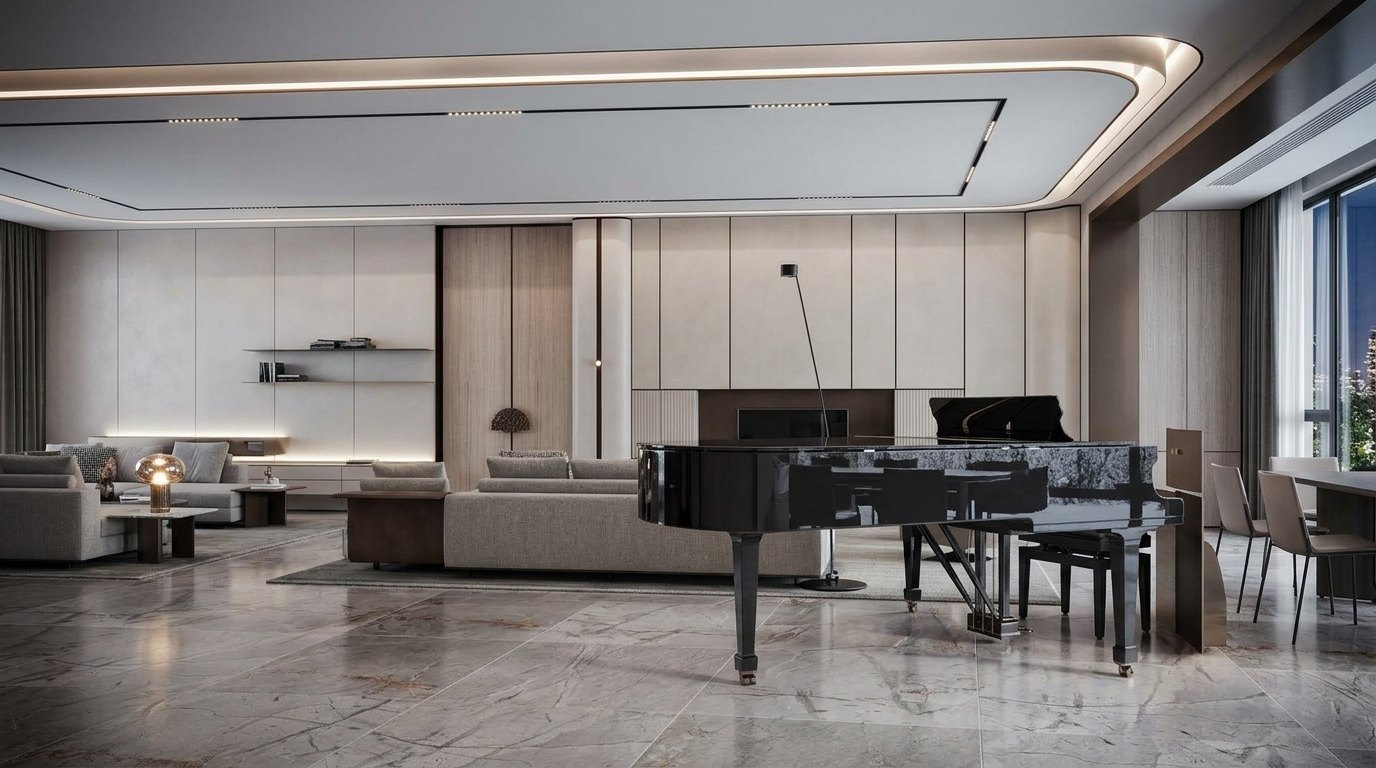
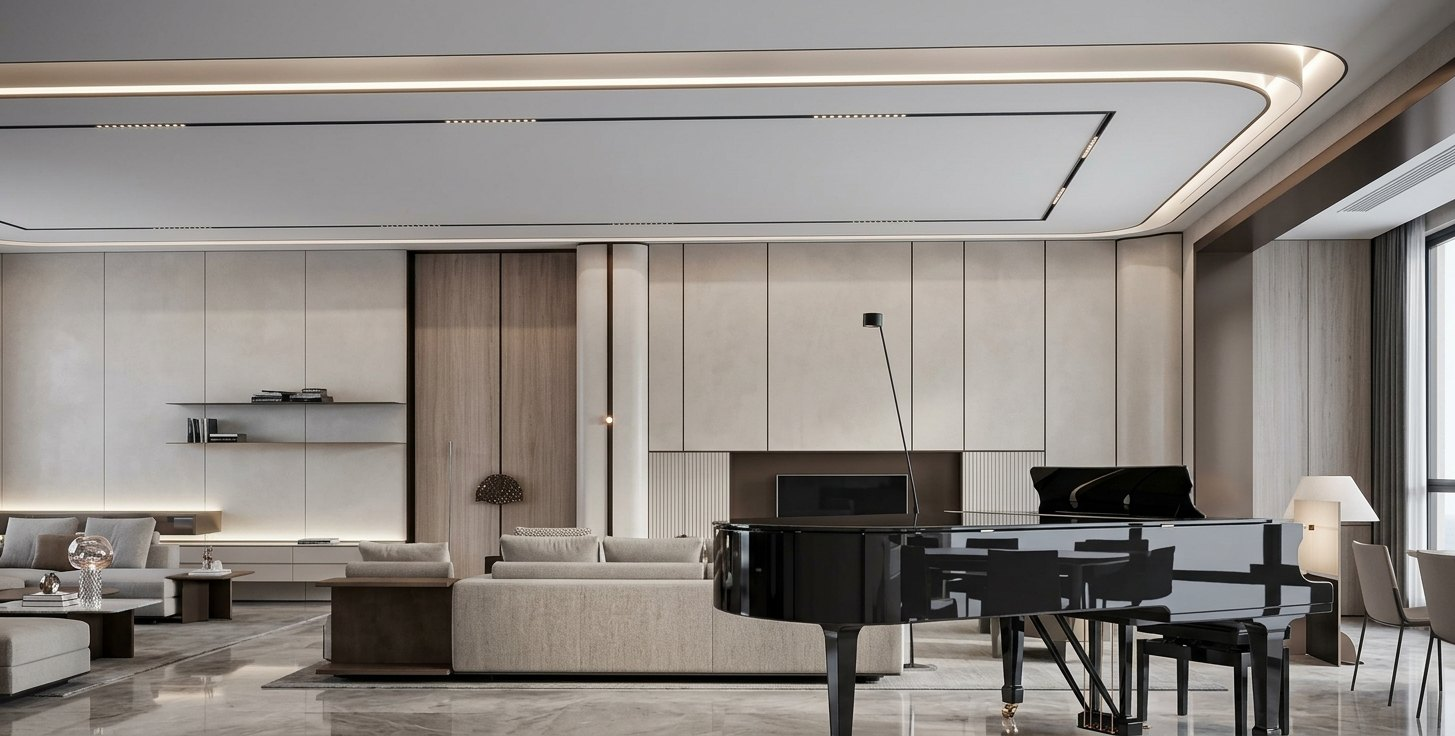
Сайт: первый экран снова во всю ширину без полей, но ниже окна; новая картинка слайда 2

diff --git a/site/index.html b/site/index.html
@@ -101,12 +101,10 @@ a{color:inherit}
 }
 
 /* первый экран — на всю высоту и ширину окна, фото фоном (её решение 05.10) */
-/* блок первого экрана: уже и ниже (её правка 05.10 по скриншоту) — по центру с отступами, пропорции 2:1 как у картинок,
-   целиком помещается в окно; ширина = меньшее из «экран минус поля» и «высота окна × 2» */
+/* блок первого экрана: во всю ширину, БЕЗ полей по бокам (её «зачем рамки сбоку»), но ниже окна —
+   ~3/4 высоты экрана (её «блок поуже»); картинки заполняют блок по ширине */
 .hero{position:relative;display:grid;align-items:end;color:var(--paper);overflow:hidden;container-type:inline-size;
-  --hero-gap:clamp(16px,2vw,32px);
-  width:min(calc(100% - 2 * var(--gut)), calc((100svh - 72px - 2 * var(--hero-gap)) * 2));
-  aspect-ratio:2/1;margin:var(--hero-gap) auto;border-radius:6px}
+  width:100%;height:clamp(500px,min(76svh,48vw),920px)}
 /* слайдер фото первого экрана: плавная смена, текст стоит на месте */
 .slides{position:absolute;inset:0}
 .slides .ph{position:absolute;inset:0;aspect-ratio:auto;border-radius:0;opacity:0;transition:opacity 1.2s ease}
@@ -122,7 +120,7 @@ a{color:inherit}
 .slides .ph:nth-child(4){background:linear-gradient(20deg,var(--ph3) 0%,var(--ph2) 45%,var(--ph1) 100%)}
 .slides .ph img{animation:zoom 9s ease-out both}
 @keyframes zoom{from{transform:scale(1.06)}to{transform:scale(1)}}
-.slider-ui{position:absolute;z-index:2;right:clamp(24px,5cqi,80px);bottom:clamp(28px,4cqi,64px);display:flex;align-items:center;gap:16px;color:var(--paper);
+.slider-ui{position:absolute;z-index:2;right:var(--gut);bottom:clamp(28px,3cqi,56px);display:flex;align-items:center;gap:16px;color:var(--paper);
   padding:8px;border-radius:99px;background:rgb(var(--shade)/.38);backdrop-filter:blur(6px)} /* видно на любом фото, и на светлом */
 .slider-ui button{width:48px;height:48px;border:1px solid rgb(255 255 255/.45);border-radius:50%;background:transparent;color:var(--paper);
   cursor:pointer;font-size:18px;transition:background .25s,color .25s}
@@ -150,20 +148,20 @@ a{color:inherit}
 @media (max-width:860px){ /* на телефоне текст во всю ширину — ровное затемнение */
   .hero > .slides .ph::after{background:linear-gradient(180deg,rgb(var(--shade)/.38) 0%,rgb(var(--shade)/.28) 60%,rgb(var(--shade)/.5) 100%)}}
 .hero > .slides .ph figcaption{left:auto;right:var(--gut);bottom:auto;top:24px;text-align:right;z-index:1}
-.hero .wrap{position:relative;z-index:1;width:100%;padding-block:clamp(28px,4cqi,64px);padding-inline:clamp(24px,5cqi,80px)}
+.hero .wrap{position:relative;z-index:1;width:100%;padding-block:clamp(28px,3cqi,56px);padding-inline:var(--gut)}
 .hero-text{display:grid;gap:28px;max-width:1120px;min-width:0}
 .hero-text .lead{max-width:62ch}
 .hero .eyebrow{color:var(--on-dark-accent)}
 .hero .lead{color:var(--on-dark-soft)}
-.hero h1{font-size:clamp(34px,5cqi,80px)}
-.hero-text{gap:clamp(14px,1.8cqi,26px)}
-.hero .lead{font-size:clamp(15px,1.25cqi,19px)}
+.hero h1{font-size:clamp(34px,min(4cqi,8svh),76px)}
+.hero-text{gap:clamp(14px,1.4cqi,24px)}
+.hero .lead{font-size:clamp(15px,1cqi,19px)}
 .hero .dirs{font-size:clamp(12px,.95cqi,14px);max-width:min(760px,56cqi)} /* не заезжать под стрелки слайдера */
 /* в небольшом блоке строку направлений прячем: те же направления уже есть в тексте над кнопками */
-@container (max-width:1360px){.hero .dirs{display:none}}
+@container (max-width:1500px){.hero .dirs{display:none}}
 /* телефон и узкие окна: блок снова на весь экран, иначе текст не влезет */
 @media (max-width:860px){
-  .hero{width:100%;aspect-ratio:auto;min-height:calc(100svh - 72px);margin:0;border-radius:0}
+  .hero{height:auto;min-height:calc(100svh - 72px)}
   .hero .wrap{padding-inline:var(--gut);padding-block:48px 56px}
   .hero h1{font-size:clamp(34px,10vw,52px)}
   .hero .lead{font-size:16px}
@@ -319,8 +317,8 @@ footer .wrap{display:flex;flex-wrap:wrap;gap:12px 32px;justify-content:space-bet
     <!-- по слайду на каждого клиента; подпись ведёт в его раздел. Фото: 2560×1440, слева спокойно (там текст) -->
     <!-- ОБРАЗЕЦ с Pinterest (её выбор 05.10): на запуск заменить на перерисованное/своё фото -->
     <figure class="ph slide is-on has-photo" data-photo="fasad" aria-roledescription="слайд" aria-label="1 из 6"><img src="img/obrazcy/pin_01.jpg" alt="Резиденция в классическом стиле с бассейном и садом вечером" style="object-position:50% 66%" fetchpriority="high"><figcaption><a href="#sobstvennik" data-go="sobstvennik">Владельцу дома →</a></figcaption></figure>
-    <!-- своя генерация Gemini по образцу (её файл 05.10), 1376×768 -->
-    <figure class="ph slide has-photo light" data-photo="kondicionery-dom" aria-roledescription="слайд" aria-label="2 из 6"><picture><source srcset="img/slides/pomoshchnik.webp" type="image/webp"><img src="img/slides/pomoshchnik.jpg" alt="Гостиная с роялем и скрытыми решётками климата в потолке" style="object-position:60% 50%" loading="lazy"></picture><figcaption><a href="#pomoshchnik" data-go="pomoshchnik">Помощнику владельца →</a></figcaption></figure>
+    <!-- своя генерация Gemini по образцу (её файл 05.10, вторая версия), 1455×736 -->
+    <figure class="ph slide has-photo light" data-photo="kondicionery-dom" aria-roledescription="слайд" aria-label="2 из 6"><picture><source srcset="img/slides/pomoshchnik.webp" type="image/webp"><img src="img/slides/pomoshchnik.jpg" alt="Гостиная с роялем и скрытыми решётками климата в потолке" style="object-position:60% 78%" loading="lazy"></picture><figcaption><a href="#pomoshchnik" data-go="pomoshchnik">Помощнику владельца →</a></figcaption></figure>
     <!-- своя генерация Recraft v4 (её файл 05.10), 1536×768 -->
     <figure class="ph slide has-photo" data-photo="shtory" aria-roledescription="слайд" aria-label="3 из 6"><picture><source srcset="img/slides/dizayner.webp" type="image/webp"><img src="img/slides/dizayner.jpg" alt="Светлая гостиная с камином, креслами и лёгкими шторами" style="object-position:50% 50%" loading="lazy"></picture><figcaption><a href="#dizayner" data-go="dizayner">Дизайнеру →</a></figcaption></figure>
     <!-- ОБРАЗЕЦ с Pinterest (тёплый пол в разрезе), 800×600 — мутно и старомодно; перерисовать -->

diff --git a/site/CLAUDE.md b/site/CLAUDE.md
@@ -16,10 +16,10 @@
 ## Оформление
 - Сайт во всю ширину экрана (её решение 05.10): без узкой колонки, отступы по краям --gut; длину строк текста
   ограничивать max-width в ch.
-- Первый экран (её правка 05.10 по скриншоту «сделай блок поуже, картинки втисни по размеру блока»): блок НЕ от края
-  до края — по центру с отступами, пропорции 2:1 как у картинок слайдов, целиком помещается в окно
-  (ширина = min(экран − поля, (высота окна − шапка − отступы) × 2)); размеры текста — от ширины блока (cqi).
-  На телефоне (≤860px) блок на весь экран. Картинки слайдов делать 2:1 (как Recraft 1536×768).
+- Первый экран (её правки 05.10): во всю ширину, БЕЗ полей по бокам («зачем рамки сбоку»), но НИЖЕ окна
+  («сделай блок поуже» = по высоте): height clamp(500px, min(76svh, 48vw), 920px); картинка заполняет блок,
+  кадр двигать object-position, чтобы главное (рояль, камин, бассейн) было видно. Текст — от ширины блока (cqi).
+  На телефоне (≤860px) блок на весь экран. Картинки слайдов делать ~2:1 (как Recraft 1536×768).
 - ЦВЕТ ВЫБРАН (её слова 05.10 «синий и шалфей цвет нравится»): глубокий синий --ink #1a2a40 + шалфей --accent #8fb39a,
   фон --paper #f2f4f1; тёмные разделы — переход --ink → --ink-2 #1f3d3a. Варианты «Синий и стекло», «Петроль и лёд» отклонены.
 - Фото слайдов: свои генерации (Recraft) — в site/img/slides/ (jpg + webp); образцы из интернета — site/img/obrazcy/ (не в git, заменить).
